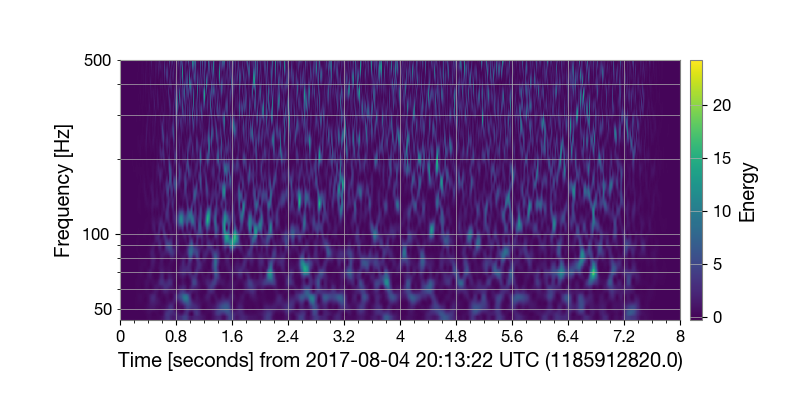
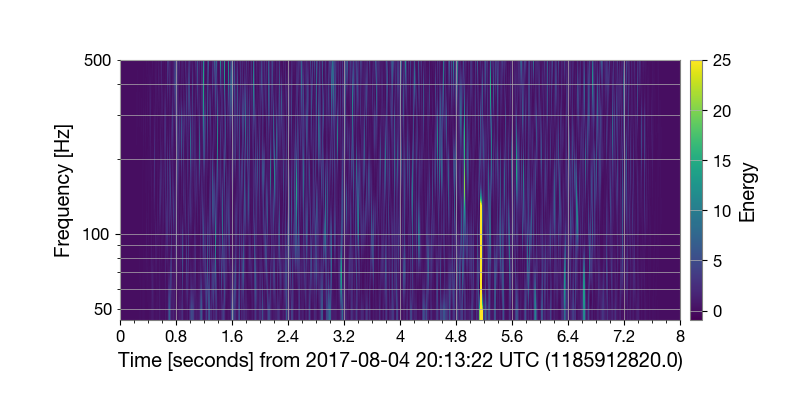
added not normalized dataplots

diff --git a/Dataplots/DataPlot.py b/Dataplots/DataPlot.py
@@ -1,7 +1,7 @@
 import numpy as np
 import matplotlib.pyplot as plt
 from scipy import signal
-#from gwpy.timeseries import TimeSeries as ts
+from gwpy.timeseries import TimeSeries as ts
 
 def overlap_plot(data: np.array, x=1, alpha=1):
     """
@@ -73,64 +73,64 @@ def individual_plots(data: np.array, x=1, alpha=1):
     plt.tight_layout()
     plt.show()
 
-# def gradient_plot(data: np.array, arm:int, plotname: str, cmap='viridis', max_25='False', normalized='False'):
+def gradient_plot(data: np.array, arm:int, plotname: str, cmap='viridis', max_25='False', normalized='False'):
 
-#     """
-#     data[n.parray]: 4x65536 array -> column 0-2 are E1, E2 and E3, column 3 is time
-#     arm[int]: select an arm (can be 1, 2 or 3)
-#     plotname[string]: name of the plot
-#     x[int](optional): the number of the figure
-#     cmap[string](optional): colors for the color map
-#     max_25[bool](optional): change all energy values above 25 to 25
-#     normalized[bool](optional): plot normalized energy (normalize between 0 and 1)
+    """
+    data[n.parray]: 4x65536 array -> column 0-2 are E1, E2 and E3, column 3 is time
+    arm[int]: select an arm (can be 1, 2 or 3)
+    plotname[string]: name of the plot
+    x[int](optional): the number of the figure
+    cmap[string](optional): colors for the color map
+    max_25[bool](optional): change all energy values above 25 to 25
+    normalized[bool](optional): plot normalized energy (normalize between 0 and 1)
 
-#     Returns a plot of the frequency (y-axis) and energy (colorbar) as function of time 
-#     """
-#     if arm not in (1, 2, 3):
-#         raise ValueError(f"arm must be 1, 2, or 3, but got {arm}")
-#     else:
-#         arm = arm-1
+    Returns a plot of the frequency (y-axis) and energy (colorbar) as function of time 
+    """
+    if arm not in (1, 2, 3):
+        raise ValueError(f"arm must be 1, 2, or 3, but got {arm}")
+    else:
+        arm = arm-1
     
-#     # splice the data
-#     t0 = data[:,3][0]
-#     t1 = data[:,3][1]
-#     start_time = t0 
-#     sample_rate = 1/(t1-t0)  
+    # splice the data
+    t0 = data[:,3][0]
+    t1 = data[:,3][1]
+    start_time = t0 
+    sample_rate = 1/(t1-t0)  
 
-#     # Create a GWpy TimeSeries object
-#     data = ts(data[:, arm], sample_rate=sample_rate, t0=start_time)
+    # Create a GWpy TimeSeries object
+    data = ts(data[:, arm], sample_rate=sample_rate, t0=start_time)
 
-#     # Generate a Q-transform spectrogram
-#     qspecgram = data.q_transform()
+    # Generate a Q-transform spectrogram
+    qspecgram = data.q_transform()
 
-#     #Plot energies higher then 25 as 25
-#     if max_25 == True:
-#         qspecgram = np.minimum(qspecgram, 25)
+    #Plot energies higher then 25 as 25
+    if max_25 == True:
+        qspecgram = np.minimum(qspecgram, 25)
 
-#     #Plot normalized energies (normalize between 0 and 1)
-#     if normalized == True:
-#         normalized_data = (qspecgram) / (qspecgram.max())
-#         qspecgram = normalized_data
+    #Plot normalized energies (normalize between 0 and 1)
+    if normalized == True:
+        normalized_data = (qspecgram) / (qspecgram.max())
+        qspecgram = normalized_data
 
 
-#     #spectogram plot
-#     plot = qspecgram.plot(figsize=[8, 4])
-#     ax = plot.gca()
+    #spectogram plot
+    plot = qspecgram.plot(figsize=[8, 4])
+    ax = plot.gca()
 
-#     ax.set_xscale('seconds')
-#     ax.set_yscale('log')
-#     ax.set_ylabel('Frequency [Hz]')
-#     #set the upper frequency limit to 500Hz
-#     ax.set_ylim(top=500)
-#     ax.grid(True, axis='y', which='both')
+    ax.set_xscale('seconds')
+    ax.set_yscale('log')
+    ax.set_ylabel('Frequency [Hz]')
+    #set the upper frequency limit to 500Hz
+    ax.set_ylim(top=500)
+    ax.grid(True, axis='y', which='both')
     
 
-#     # Add a colorbar
-#     plot.colorbar(label='Energy', cmap=cmap)
+    # Add a colorbar
+    plot.colorbar(label='Energy', cmap=cmap)
 
-#     # Save the figure
-#     plot.savefig(f'{plotname}.png') 
-#     print(f"figure has been saved as {plotname}.png")
+    # Save the figure
+    plot.savefig(f'{plotname}.png') 
+    print(f"figure has been saved as {plotname}.png")
 
 def final_dataplot(x, data:np.array, arm:int, deviation:str, normalized=False, plotname=None):
 
